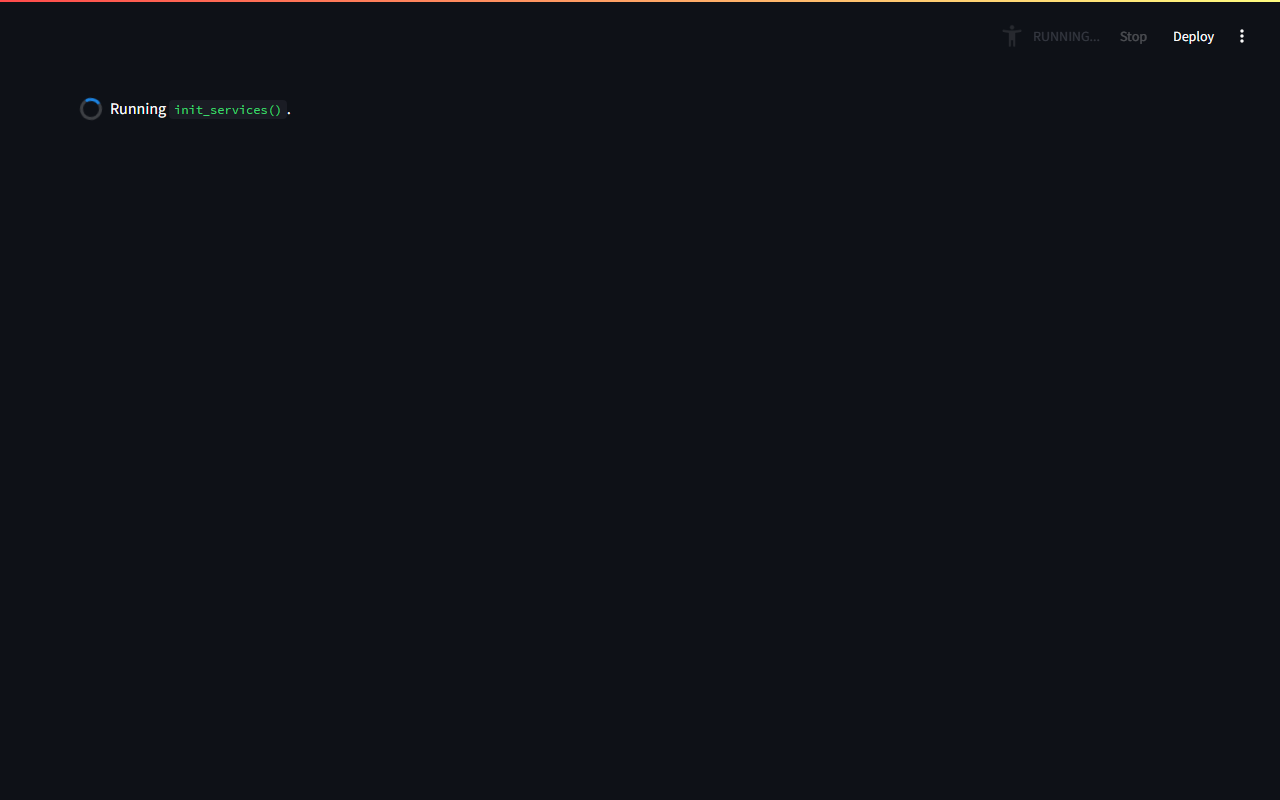
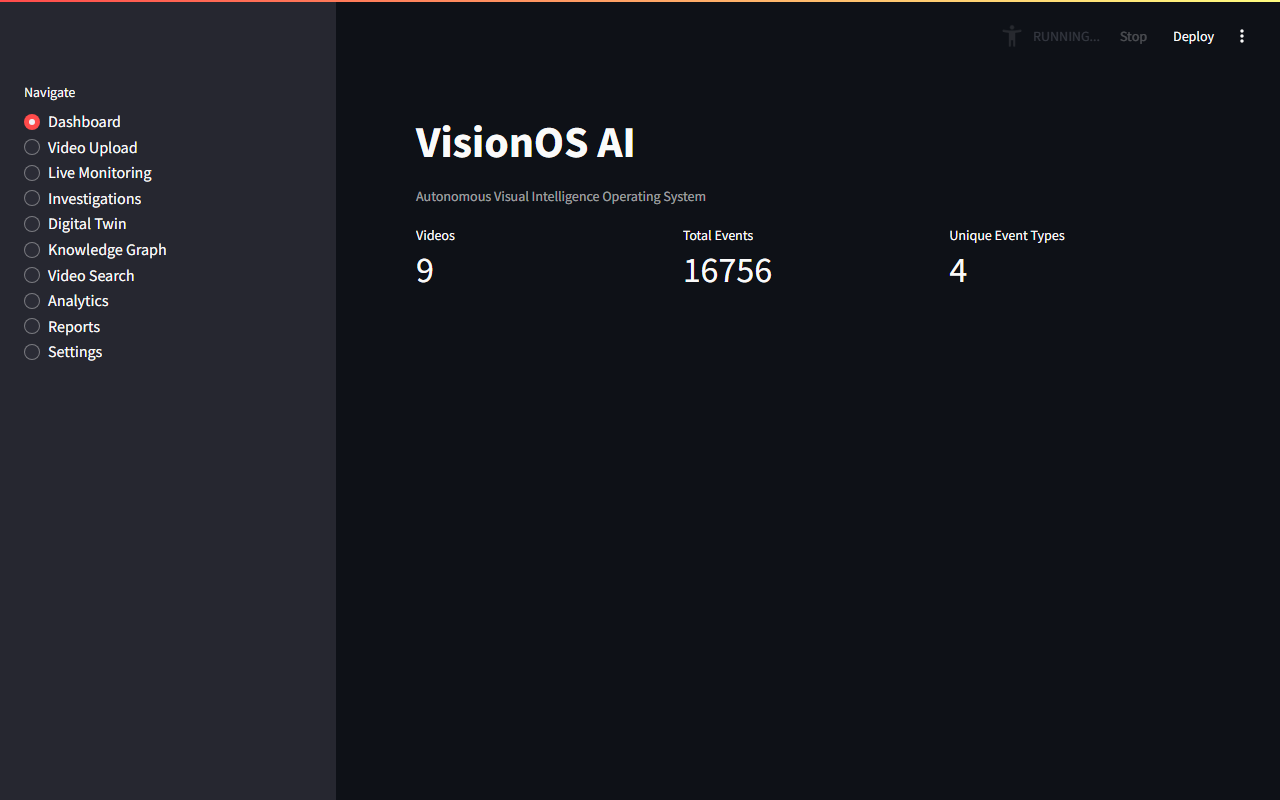
Capture fully rendered real Streamlit dashboard screenshot and push final updates

diff --git a/capture_screenshot.py b/capture_screenshot.py
@@ -10,15 +10,17 @@ def main():
         "run", 
         r"d:\Computer_Vision\LogFormer\app.py", 
         "--server.port", "8501", 
-        "--server.headless", "true"
+        "--server.headless", "true",
+        "--browser.gatherUsageStats", "false",
+        "--client.toolbarMode", "hidden"
     ]
     
     # Start streamlit as a background process
     proc = subprocess.Popen(streamlit_cmd, stdout=subprocess.PIPE, stderr=subprocess.PIPE)
     
-    # Wait for the model loading and similarity database to index (approx 12 seconds)
-    print("Waiting 12 seconds for model and vector similarity index to build...")
-    time.sleep(12)
+    # Wait for the model loading and similarity database to index (approx 35 seconds)
+    print("Waiting 35 seconds for model and vector similarity index to build...")
+    time.sleep(35)
     
     chrome_path = r"C:\Program Files\Google\Chrome\Application\chrome.exe"
     output_path = r"d:\Computer_Vision\LogFormer\plots\logmind_dashboard_preview.png"